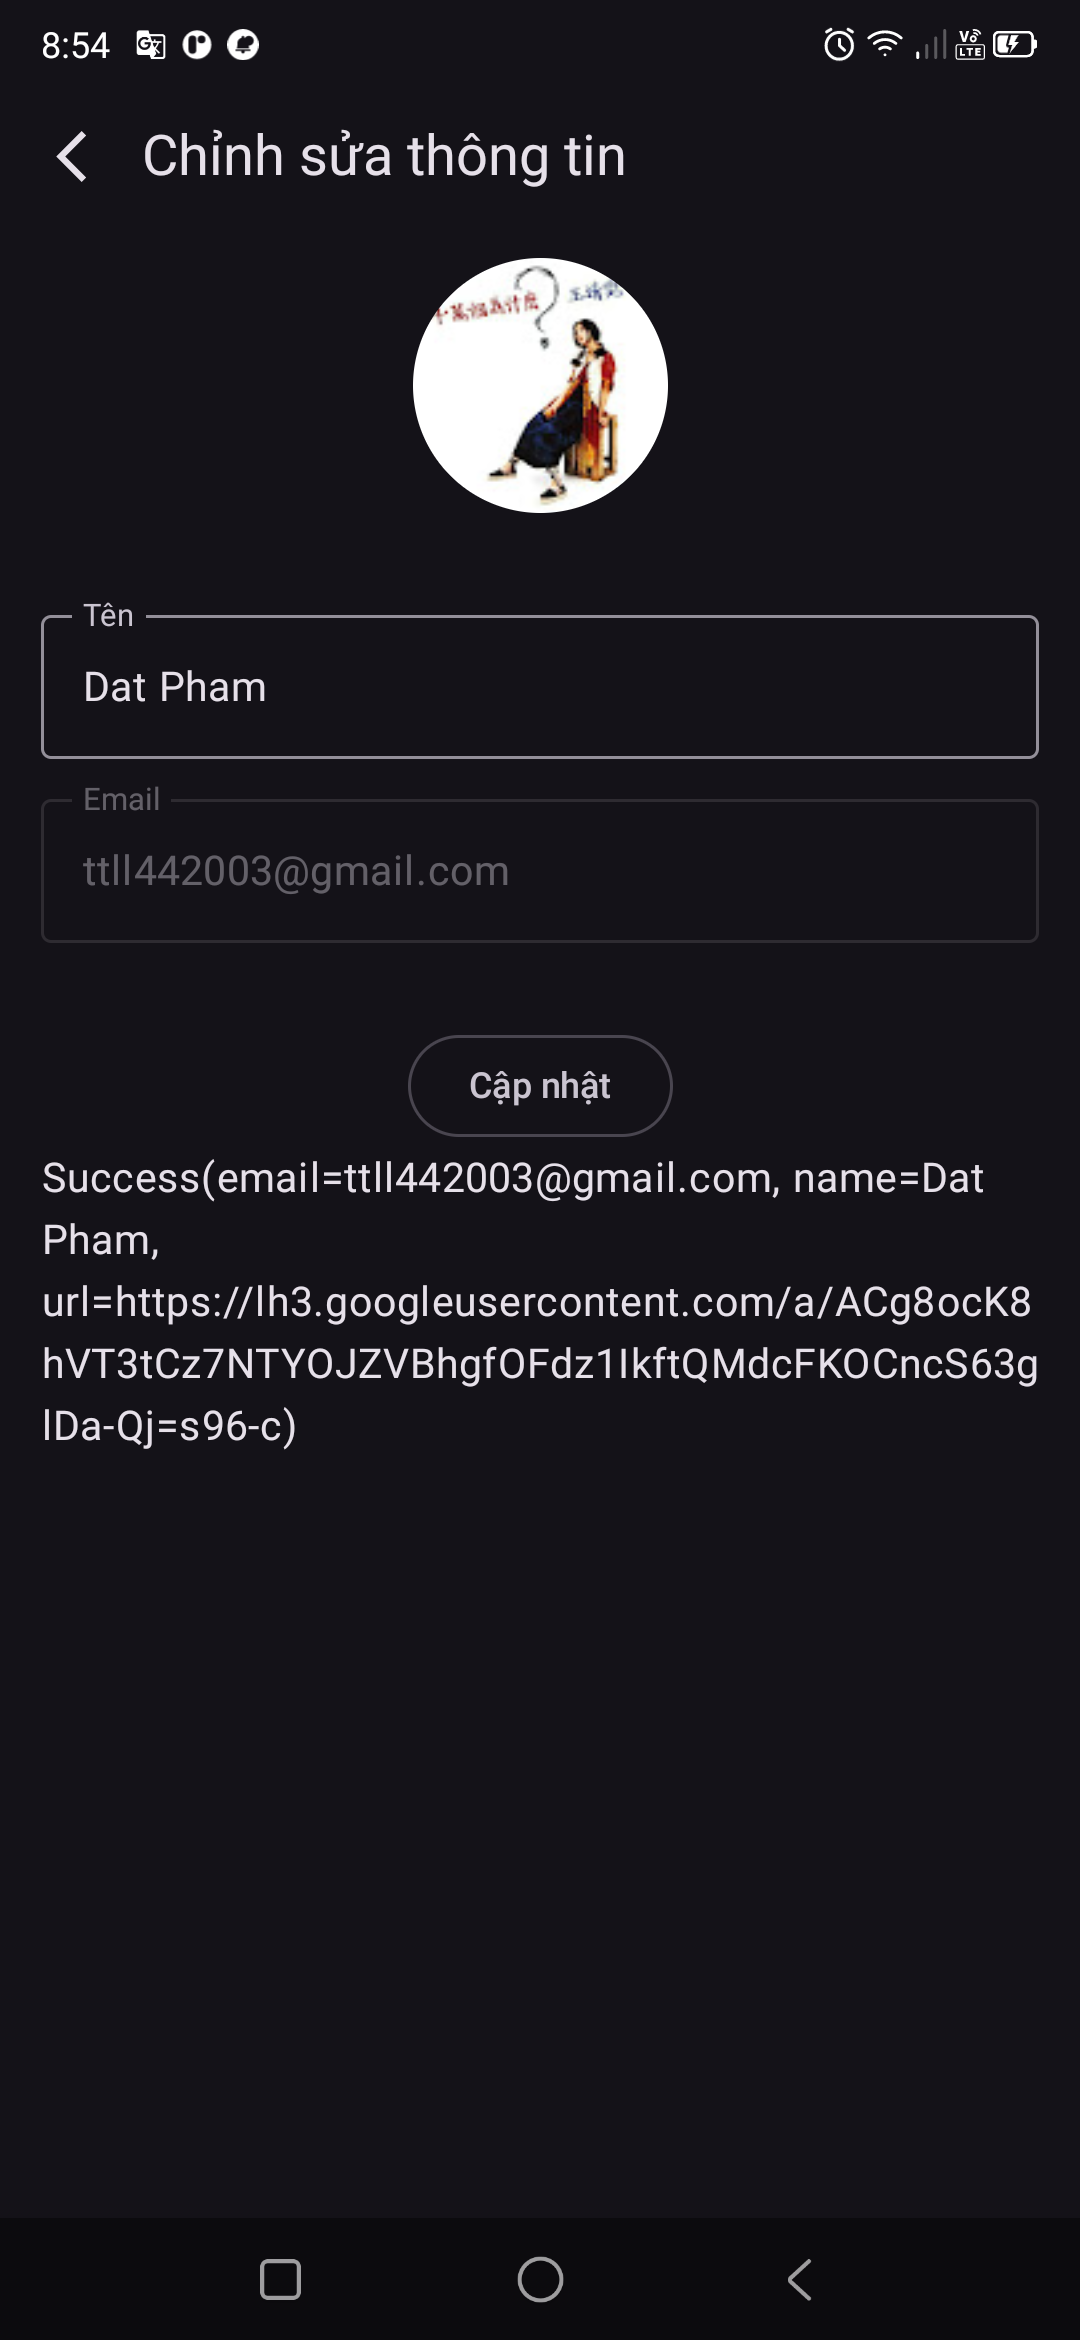
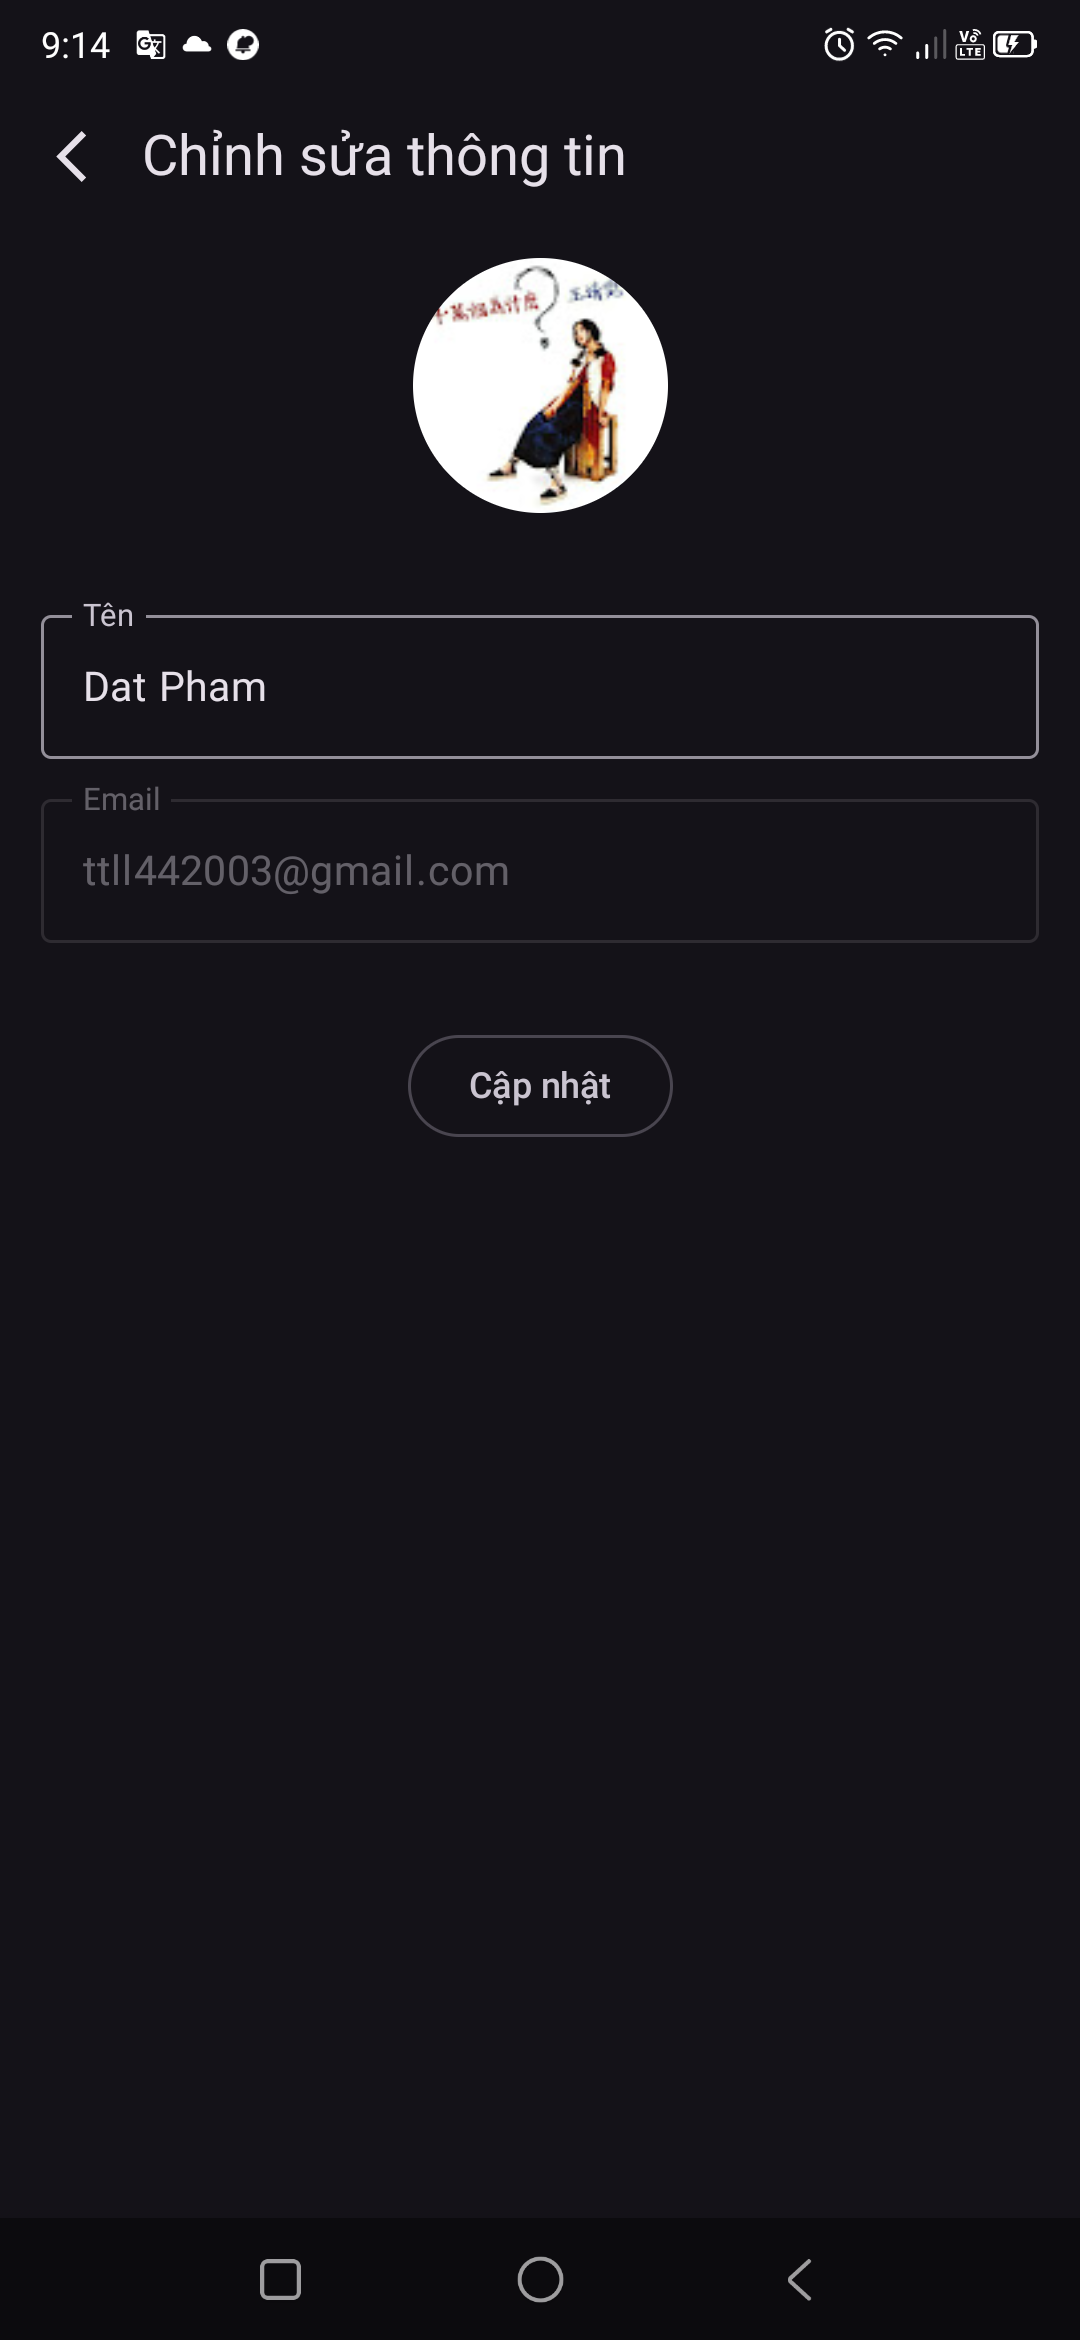
Remove `profileUiState` debug text from `ProfileScreen`.
The debug text displaying the `profileUiState` has been removed from the `ProfileScreen` composable.
This change also includes an updated screenshot reflecting the UI without the debug text.

Changed region(s): [[0.0306, 0.4991, 0.9778, 0.6239], [0.1528, 0.0, 0.1833, 0.0312], [0.0611, 0.0, 0.0917, 0.0312]]

diff --git a/app/src/main/java/com/ad/cookgood/profile/presentation/ProfileScreen.kt b/app/src/main/java/com/ad/cookgood/profile/presentation/ProfileScreen.kt
@@ -146,8 +146,6 @@ fun ProfileScreenContent(
             OutlinedButton(updateUserProfile) {
                Text(stringResource(R.string.update_profile))
             }
-
-            Text(profileUiState.toString())
          }
       }
 
